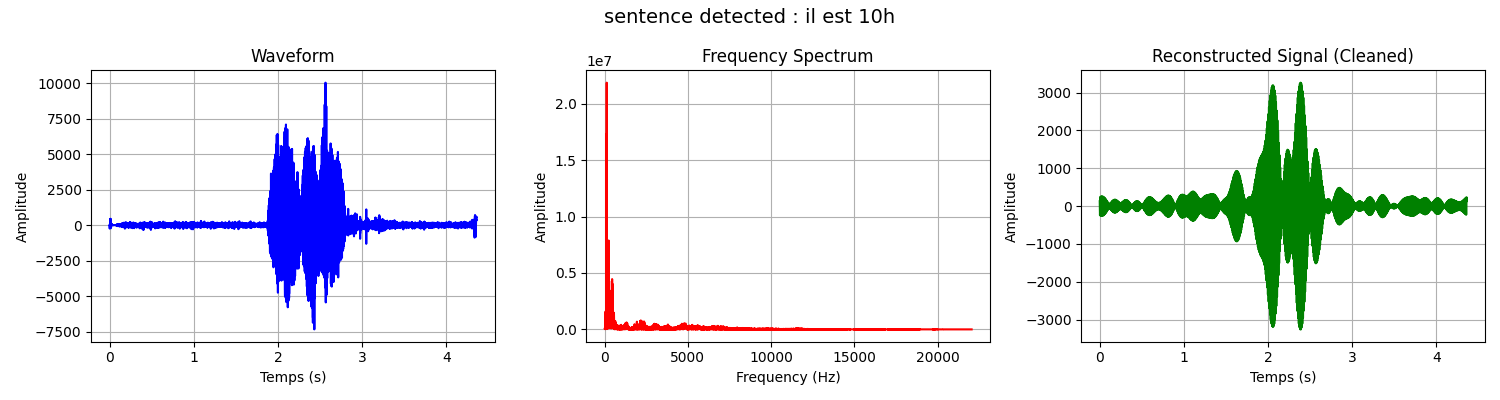
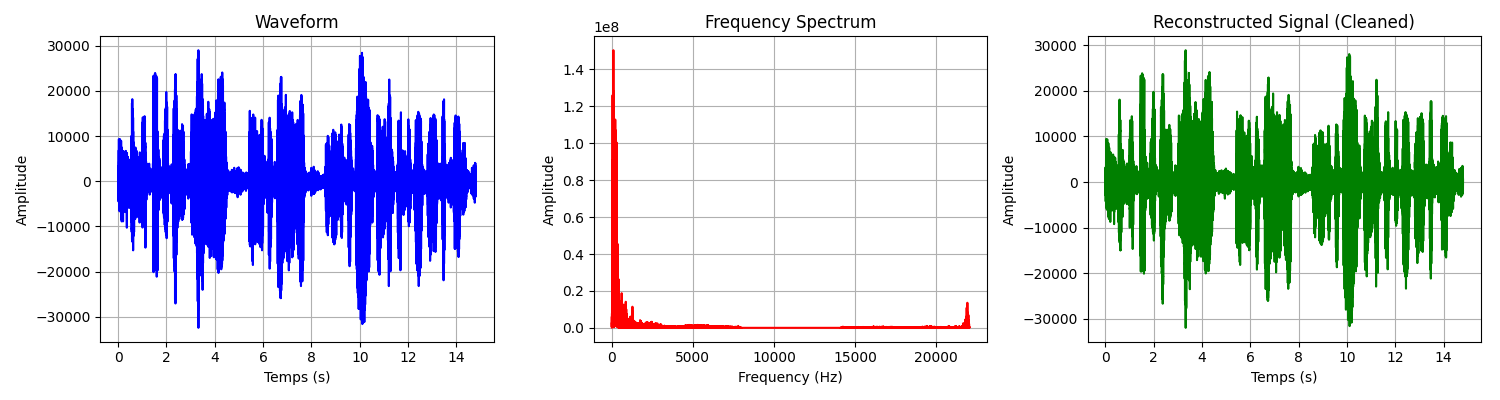
v1

diff --git a/speechReco.py b/speechReco.py
@@ -1,0 +1,165 @@
+import speech_recognition as sr
+from pydub import AudioSegment
+import matplotlib.pyplot as plt
+import numpy as np
+import re
+
+from readLips import LoadDatas
+
+class TreatSound(LoadDatas):
+    def __init__(self, directory) -> None:
+        super().__init__(directory)
+        self.sentence = self.recognize_from_audio_file()
+        if self.sentence is not None:
+            print('sentence =', self.sentence)
+            self.get_numbers_words()
+            self.plot_audio_waveform()
+            self.plot_fourier()
+        
+        
+    def recognize_from_audio_file(self):
+        # Créer un objet Recognizer
+        r = sr.Recognizer()
+        
+        try:
+            # Utiliser le fichier temporaire pour la reconnaissance vocale
+            with sr.AudioFile(self.audio_file) as source:
+                audio_data = r.record(source)  # Lecture du fichier audio
+
+            # Reconnaissance vocale avec Google Web Speech API
+            text = r.recognize_google(audio_data, language="fr-FR")
+            
+            return text
+        except sr.UnknownValueError:
+            print("Google Web Speech API n'a pas pu comprendre l'audio")
+        except sr.RequestError as e:
+            print(f"Erreur lors de la demande à Google Web Speech API : {e}")
+        
+        return None
+    
+    def get_numbers_words(self):
+        parts = re.findall(r'\S+|\s', self.sentence)
+        self.nb_words = len(parts)
+        n = 0
+        for w in parts:
+            if w == ' ':
+                n += 1
+        print('words', self.nb_words, 'silence', n)
+        
+        
+    
+    def plot_audio_waveform(self):
+        values, _, _ = self.get_datas_sound()
+        times, samples = values
+        angle = np.linspace(times[0], times[-1], len(times))
+        t = np.linspace(times[0], times[-1], self.nb_words)
+        vx = np.interp(t, angle, samples)
+
+        vy = np.interp(t, angle, times)
+
+        
+        fig = plt.figure(figsize=(15, 4))
+        title = f'{self.sentence} ({self.nb_words} words)'
+        fig.suptitle(title, fontsize=14)
+        ax = fig.add_subplot(111)
+        
+        ax.plot(times, samples, label='Original')
+        
+        ax.vlines(x=vy, ymin=0, ymax=np.max(samples), colors='r', linestyles='dashed', label='Interpolated Points')
+
+        
+        ax.set_xlabel('Time')  # Label de l'axe des x
+        
+        plt.savefig('soundtrack_interp.png')
+        plt.show()
+        
+        
+    def plot_fourier(self):
+        values, four, reconstructed_signal_cleaned = self.get_datas_sound()
+        times, samples = values
+        positive_freqs, positive_amplitudes = four
+    
+
+        plt.figure(figsize=(15, 4))
+        plt.subplot(1, 3, 1)
+        plt.plot(times, samples, color='b')
+        plt.title('Waveform')
+        plt.xlabel('Temps (s)')
+        plt.ylabel('Amplitude')
+        plt.grid(True)
+
+        # Créer le graphique du spectre de fréquences
+        plt.subplot(1, 3, 2)
+        plt.plot(positive_freqs, positive_amplitudes, color='r')
+        plt.title('Frequency Spectrum')
+        plt.xlabel('Frequency (Hz)')
+        plt.ylabel('Amplitude')
+        plt.grid(True)
+
+        # Créer le graphique du signal reconstruit nettoyé
+        plt.subplot(1, 3, 3)
+        plt.plot(times, reconstructed_signal_cleaned, color='g')
+        plt.title('Reconstructed Signal (Cleaned)')
+        plt.xlabel('Temps (s)')
+        plt.ylabel('Amplitude')
+        plt.grid(True)
+
+        plt.tight_layout()
+        plt.savefig('soundtrack.png')
+        plt.show()
+        
+       
+        
+    def get_datas_sound(self):
+        # Charger le fichier audio avec PyDub
+        sound = AudioSegment.from_wav(self.audio_file)
+        
+        # Convertir le son en tableau numpy d'int16 (amplitudes)
+        samples = np.array(sound.get_array_of_samples())
+        
+        # Obtenir les échantillons par seconde et les temps associés
+        sample_rate = sound.frame_rate
+        times = np.linspace(0, len(samples) / sample_rate, num=len(samples))
+        self.values = [times, samples]
+        # Calculer la FFT
+        fft_result = np.fft.fft(samples)
+        freqs = np.fft.fftfreq(len(samples), 1/sample_rate)
+        
+        # Calculer l'amplitude du signal
+        amplitude = np.abs(fft_result)
+
+        # Filtrer les fréquences pour garder seulement la moitié positive
+        val = len(freqs)//2
+        positive_freqs = freqs[:len(freqs)//2]
+        positive_amplitudes = amplitude[:len(amplitude)//2]
+
+        # Appliquer un seuil pour nettoyer le signal
+        threshold = np.max(amplitude) * 0.01  # Par exemple, 1% de l'amplitude maximale
+        fft_result_cleaned = np.where(amplitude > threshold, fft_result, 0)
+        
+        # Calculer l'IDFT avec les coefficients nettoyés
+        reconstructed_signal_cleaned = np.fft.ifft(fft_result_cleaned)
+        reconstructed_signal_cleaned = np.real(reconstructed_signal_cleaned)
+        
+        return (times, samples), (positive_freqs, positive_amplitudes), reconstructed_signal_cleaned
+        
+    
+    def calculcoefFourier(self, signal, T):
+        N = len(signal)
+        fft_result = np.fft.fft(signal)
+        freqs = np.fft.fftfreq(N, T)
+        return fft_result, freqs
+
+    def calculResult(self, fft_result):
+        # Utiliser la transformée inverse pour reconstruire le signal
+        reconstructed_signal = np.fft.ifft(fft_result)
+        return np.real(reconstructed_signal)
+
+
+        
+    
+
+        
+if __name__=='__main__':
+    directory = 'datas'
+    TreatSound(directory)

diff --git a/readLips.py b/readLips.py
@@ -21,6 +21,7 @@ class LoadDatas:
                 self.data = np.load(p)
             if path.endswith('.wav'):
                 samplerate, data = wavfile.read(p)
+                self.audio_file = p
             if path.endswith('.mp4'):
                 self.cap = cv2.VideoCapture(p)
             

diff --git a/README.md b/README.md
@@ -69,7 +69,9 @@ Le fait de fixer le nombre de dimensions de la sortie permet aussi de préparer 
 
 ## **Data Cleaning Sound**
 
-Le module `sound.py` permet d'analyser le fichier `.wav`. Il extrait les données du son et les représente par rapport au temps (durée du film), puis les affiche à l'écran. Il interprète ce son (SpeechRecognition) afin de créer une chaîne de caractères qui donne la sémantique de ce qui a été dit sur cette bande son. En splittant cette chaîne de caractères par rapport aux espaces entre les mots, on définit le nombre de "mots" et le nombre de silences ("esp").
+Le module `speechReco.py` permet d'analyser le fichier `.wav`. Il extrait les données du son et les représente par rapport au temps (durée du film), puis les affiche à l'écran. Il interprète ce son (SpeechRecognition) afin de créer une chaîne de caractères qui donne la sémantique de ce qui a été dit sur cette bande son. En splittant cette chaîne de caractères par rapport aux espaces entre les mots, on définit le nombre de "mots" et le nombre de silences ("esp").
+
+![Lips Points](soundtrack_interp.png)
 
 En appliquant une interpolation par `np.interp` sur le graphique du son, on obtient les phases de son par chacun des mots et des silences de la phrase prononcée. Enfin, une analyse par transformée de Fourier (FFT) permet de visualiser l'image spectrale du son. On visualise ainsi les sons forts (les mots) et les sons faibles (les silences). En supprimant les amplitudes faibles, on définit aussi un ordre constant, quel que soit le fichier son.
 
